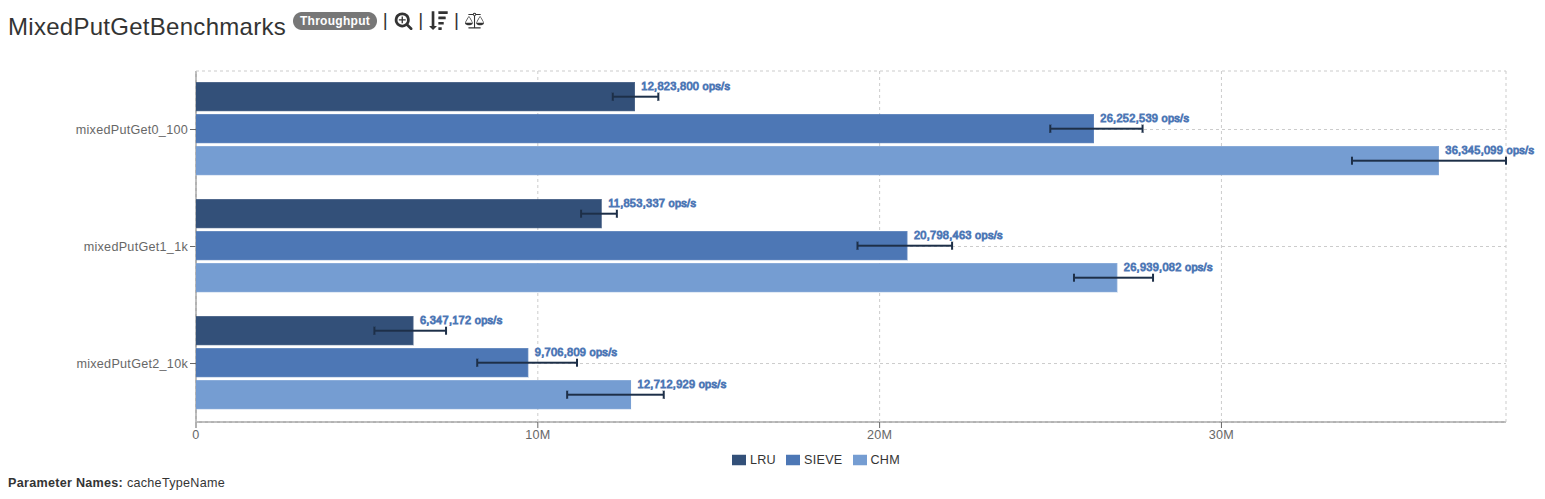
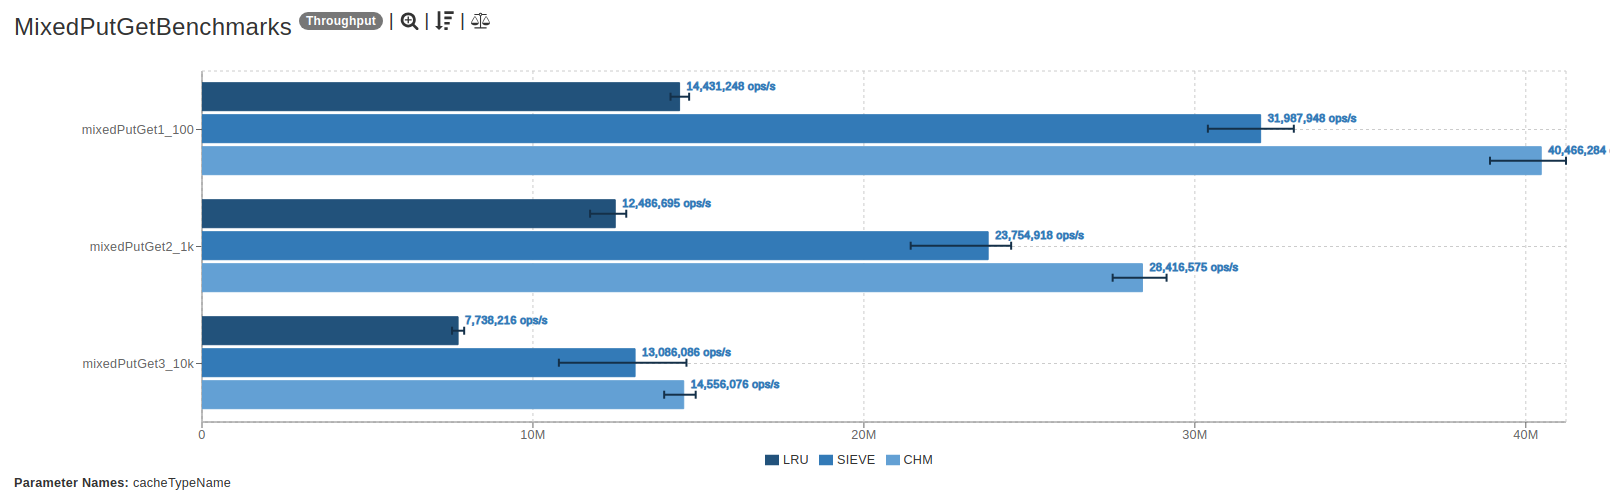
- Introduce single-threaded executor for async sieving in SieveCache. - Refactored SieveCache#refresh() logic to directly remove expired entries. - updated bench images

diff --git a/src/main/java/dev/bischoff/michael/elastic/cache/SieveCache.java b/src/main/java/dev/bischoff/michael/elastic/cache/SieveCache.java
@@ -1,10 +1,7 @@
 package dev.bischoff.michael.elastic.cache;
 
 import java.util.*;
-import java.util.concurrent.ConcurrentHashMap;
-import java.util.concurrent.ConcurrentLinkedDeque;
-import java.util.concurrent.ConcurrentMap;
-import java.util.concurrent.ExecutionException;
+import java.util.concurrent.*;
 import java.util.concurrent.atomic.AtomicBoolean;
 import java.util.concurrent.atomic.LongAdder;
 import java.util.function.BiConsumer;
@@ -53,6 +50,7 @@ public class SieveCache<Key, Value> implements Cache<Key, Value> {
     private final ToLongBiFunction<Key, Value> weigher;
     private final RemovalListener<Key, Value> removalListener;
 
+    private final ExecutorService siever = Executors.newSingleThreadExecutor();
     private volatile Iterator<EntryHolder<Key, Value>> sieve;
     // positive if entries have an expiration
     private final long expireAfterAccessNanos;
@@ -105,7 +103,7 @@ public class SieveCache<Key, Value> implements Cache<Key, Value> {
             weight.add(-weigher.applyAsLong(oldValue.key, oldValue.value));
             removeFromQueue(oldValue, REPLACED);
         }
-        sieveUntilSpace();
+        siever.submit(this::sieveUntilSpace);
     }
 
     @Override
@@ -130,7 +128,7 @@ public class SieveCache<Key, Value> implements Cache<Key, Value> {
             });
             if(created.get()) {
                 appendToHead(result);
-                sieveUntilSpace();
+                siever.submit(this::sieveUntilSpace);
                 assert result != null;
                 return result.value;
             } else {
@@ -186,7 +184,19 @@ public class SieveCache<Key, Value> implements Cache<Key, Value> {
 
     @Override
     public void refresh() {
-        sieveUntilSpace();
+        var iterator = queue.descendingIterator();
+        while(iterator.hasNext()) {
+            var entry = iterator.next();
+            if(isExpired(entry, now())) {
+                if(cache.remove(entry.key, entry)) {
+                    size.decrement();
+                    weight.add(-weigher.applyAsLong(entry.key, entry.value));
+                    removalListener.onRemoval(new RemovalNotification<>(entry.key, entry.value, EVICTED));
+                    evictions.increment();
+                }
+                iterator.remove();
+            }
+        }
     }
 
     @Override
@@ -259,7 +269,6 @@ public class SieveCache<Key, Value> implements Cache<Key, Value> {
         } finally {
             sieving.set(false);
         }
-
     }
 
     private boolean hasSpace() {
